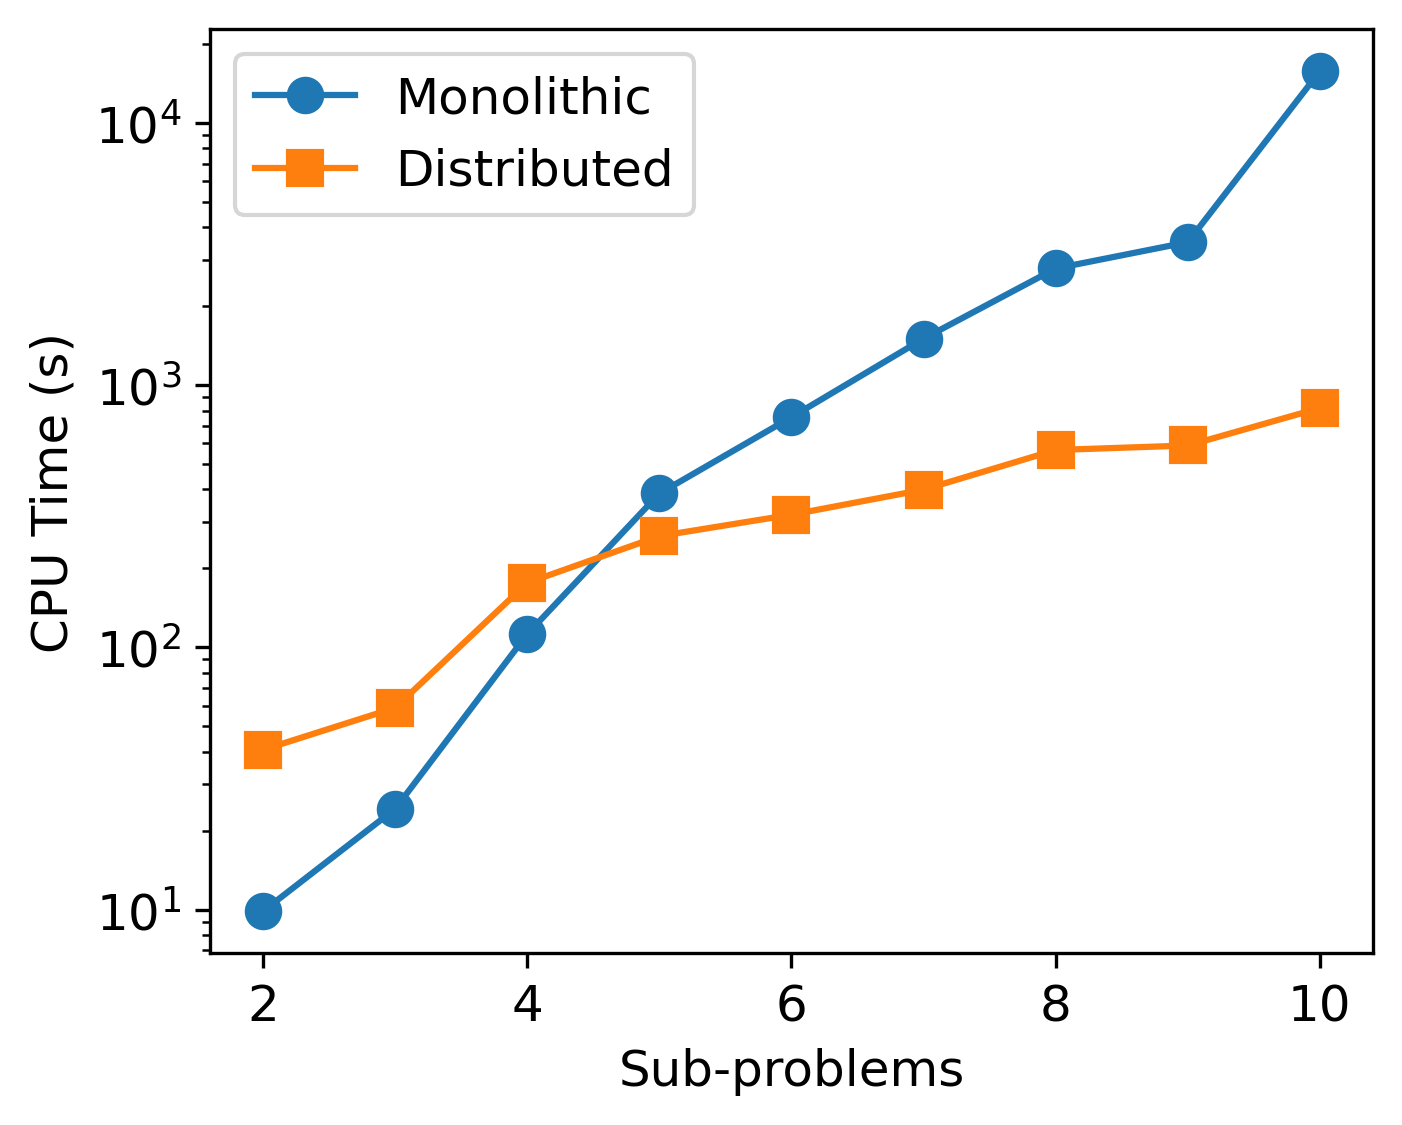
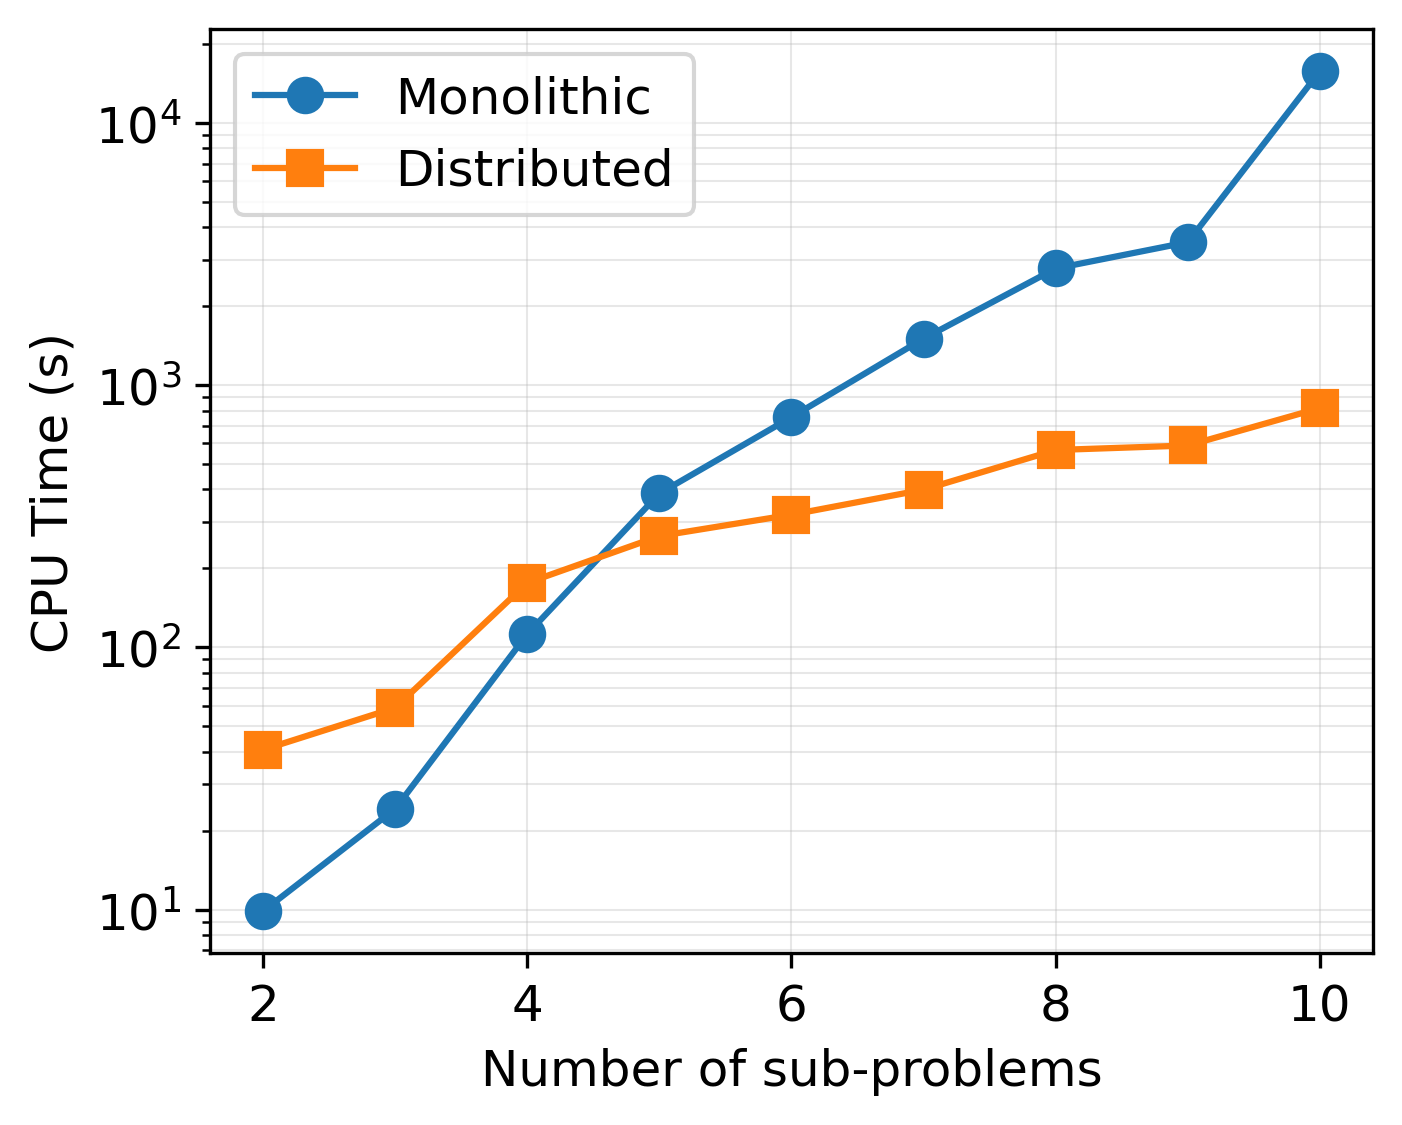
plotting

Changed region(s): [[0.3374, 0.9333, 0.7974, 0.9644]]

diff --git a/relaxation/memory.py b/relaxation/memory.py
@@ -18,10 +18,12 @@ plt.rcParams.update({'font.size': 12})
 
 plt.plot(copies, monolithic_memory_jax, label='Monolithic', marker='o', markersize=8)
 plt.plot(copies, distributed_memory, label='Distributed', marker='s', markersize=8)
-plt.xlabel('Sub-problems')
+plt.xlabel('Number of sub-problems')
 plt.ylabel('Memory (MB)')
 plt.legend()
-
 plt.yscale('log')
+
+plt.grid(True, which="both", linestyle='-', linewidth=0.5, alpha=0.3)
+
 plt.savefig('memory.png', dpi=300, transparent=True, bbox_inches='tight')
 plt.show()

diff --git a/relaxation/timing.py b/relaxation/timing.py
@@ -45,10 +45,11 @@ plt.rcParams.update({'font.size': 12})
 
 plt.plot(copies, monolithic_time, label='Monolithic', marker='o', markersize=8)
 plt.plot(copies, distributed_time, label='Distributed', marker='s', markersize=8)
-plt.xlabel('Sub-problems')
+plt.xlabel('Number of sub-problems')
 plt.ylabel('CPU Time (s)')
 plt.legend()
-
 plt.yscale('log')
+plt.grid(True, which="both", linestyle='-', linewidth=0.5, alpha=0.3)
+
 plt.savefig('timing.png', dpi=300, transparent=True, bbox_inches='tight')
 plt.show()
